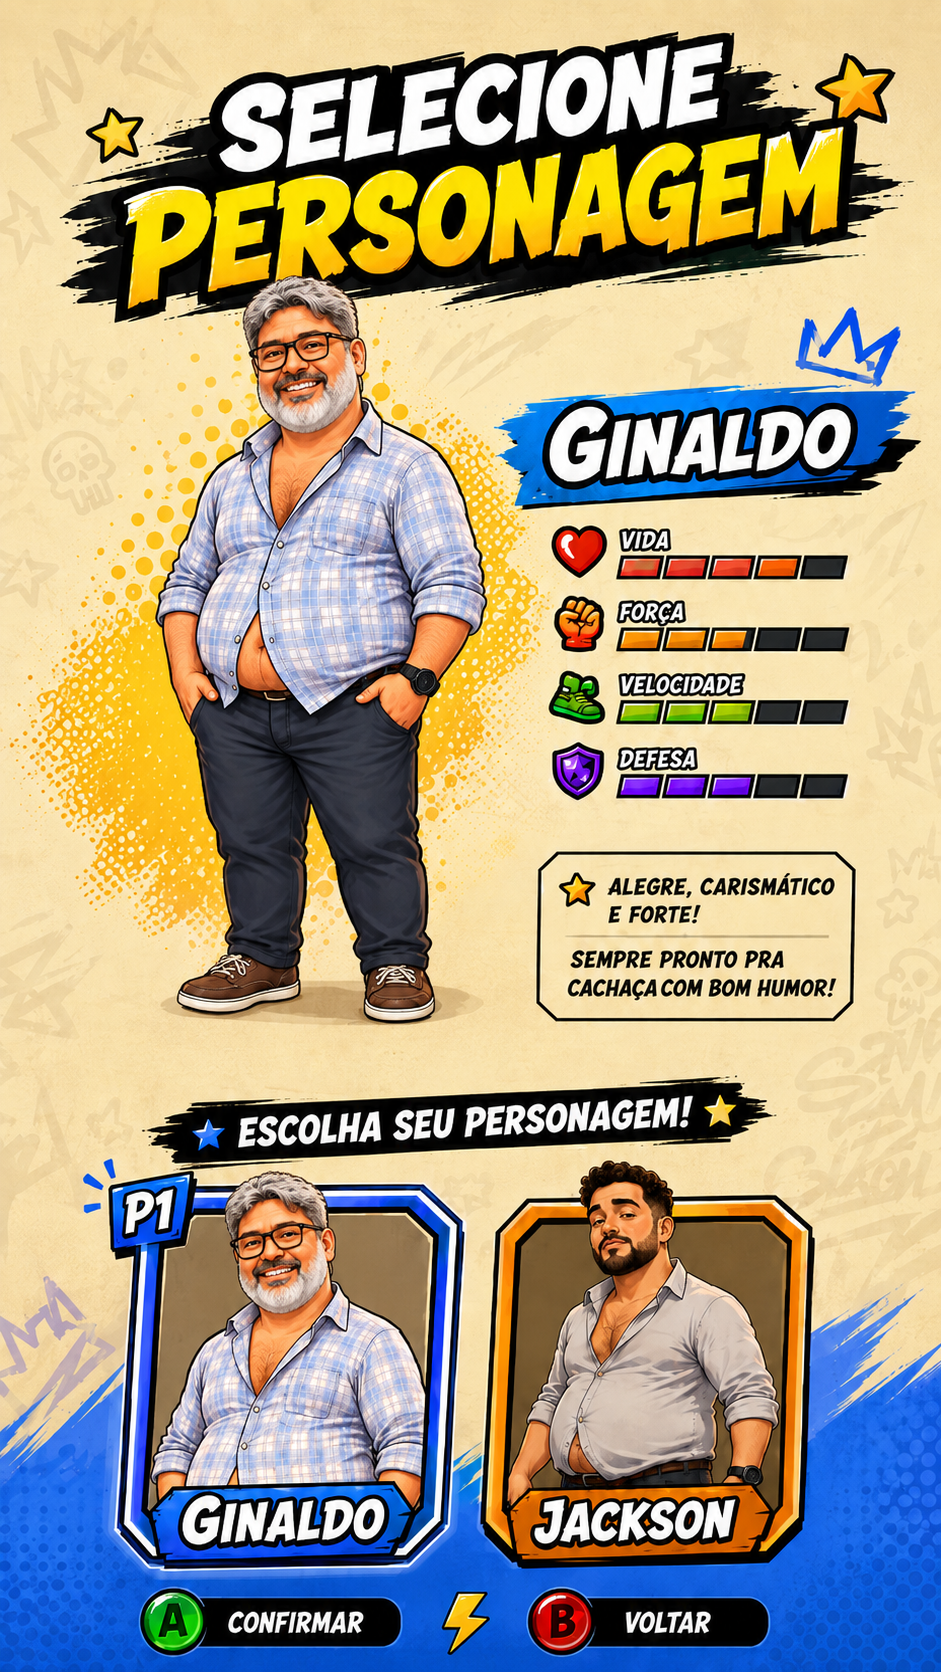
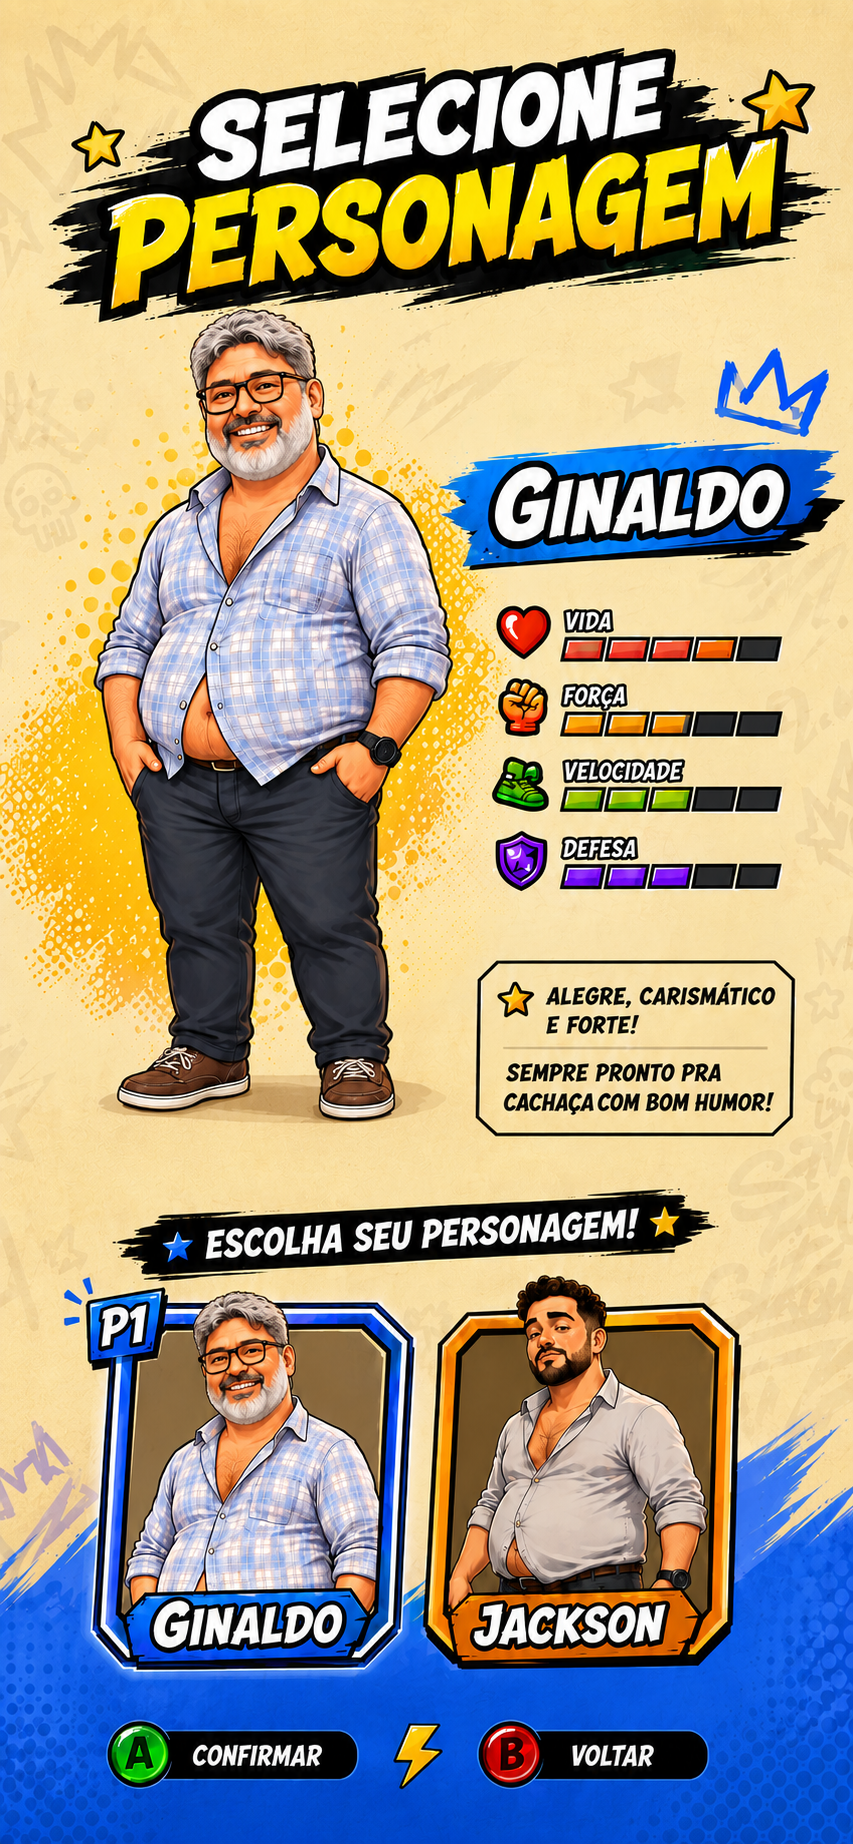
Update selection art and restore Eduardo

diff --git a/src/pages/BarGame.tsx b/src/pages/BarGame.tsx
@@ -238,13 +238,11 @@ export default function BarGame() {
       walkerFramesRef.current.jackson = [1, 2, 3, 4].map((column) => isolatePerson(jackson, column, 6, 0, 1.42));
     };
     const ginaldoWalker = new Image();
-    ginaldoWalker.src = "/bar-game/eduardo-walker-sprites-v4.png";
+    ginaldoWalker.src = "/bar-game/eduardo-walker-sprites-v5.png";
     walkerSpriteRefs.current.ginaldo = ginaldoWalker;
     ginaldoWalker.onload = () => {
-      walkerFramesRef.current.ginaldo = [0, 1].flatMap((row) =>
-        Array.from({ length: 15 }, (_, column) =>
-          isolatePerson(ginaldoWalker, column, 15, row, 1.2, 2, 1),
-        ),
+      walkerFramesRef.current.ginaldo = [1, 2, 3, 4].map((column) =>
+        isolatePerson(ginaldoWalker, column, 5, 0, 1.42, 2, 1.14),
       );
     };
     const bottleSources = [
@@ -519,7 +517,7 @@ export default function BarGame() {
       if (!sprite?.complete || !sprite.naturalWidth) return;
       const frames = walkerFramesRef.current[selectedCharacter];
       if (!frames.length) return;
-      const halfTrip = selectedCharacter === "ginaldo" ? 5.6 : 8.5;
+      const halfTrip = 8.5;
       const cycle = elapsed % (halfTrip * 2);
       const goingRight = cycle < halfTrip;
       const progress = goingRight ? cycle / halfTrip : (cycle - halfTrip) / halfTrip;
@@ -527,32 +525,19 @@ export default function BarGame() {
       const drawW = drawH * (frames[0].width / frames[0].height);
       const startX = -drawW * 0.7;
       const endX = width + drawW * 0.7;
-      const interactionStart = 5 / 15;
-      const interactionEnd = 11 / 15;
-      const travelProgress = progress < interactionStart
-        ? (progress / interactionStart) * 0.5
-        : progress < interactionEnd
-          ? 0.5
-          : 0.5 + ((progress - interactionEnd) / (1 - interactionEnd)) * 0.5;
-      const x = selectedCharacter === "ginaldo"
-        ? goingRight
-          ? startX + (endX - startX) * travelProgress
-          : endX - (endX - startX) * travelProgress
-        : goingRight
-          ? startX + (endX - startX) * progress
-          : endX - (endX - startX) * progress;
+      const x = goingRight
+        ? startX + (endX - startX) * progress
+        : endX - (endX - startX) * progress;
       const floorY = height * 0.67;
-      const framePosition = selectedCharacter === "ginaldo" ? progress * 15 : frameClock / 0.14;
-      const frameOffset = selectedCharacter === "ginaldo" && !goingRight ? 15 : 0;
-      const directionFrameCount = selectedCharacter === "ginaldo" ? 15 : frames.length;
-      const frameIndex = frameOffset + Math.min(directionFrameCount - 1, Math.floor(framePosition) % directionFrameCount);
+      const framePosition = frameClock / 0.14;
+      const frameIndex = Math.floor(framePosition) % frames.length;
       const walkWave = Math.sin(framePosition * Math.PI);
       const bob = Math.abs(walkWave) * (selectedCharacter === "ginaldo" ? 2.5 : 3);
       const bodySway = selectedCharacter === "ginaldo" ? Math.sin(framePosition * Math.PI) * 0.006 : 0;
 
       ctx.save();
       ctx.translate(x, bob);
-      if (!goingRight && selectedCharacter !== "ginaldo") ctx.scale(-1, 1);
+      if (!goingRight) ctx.scale(-1, 1);
       ctx.rotate(bodySway);
       ctx.drawImage(frames[frameIndex], -drawW / 2, floorY - drawH, drawW, drawH);
       ctx.restore();
@@ -907,8 +892,8 @@ export default function BarGame() {
           <div
             className="absolute left-1/2 top-1/2 overflow-hidden -translate-x-1/2 -translate-y-1/2"
             style={{
-              width: "min(100vw, calc(100vh * 941 / 1672))",
-              height: "min(100vh, calc(100vw * 1672 / 941))",
+              width: "min(100vw, calc(100vh * 853 / 1844))",
+              height: "min(100vh, calc(100vw * 1844 / 853))",
             }}
           >
             <img src={`/bar-game/selecao-${selectedCharacter}.png`} alt="Seleção de personagem" className="absolute inset-0 h-full w-full" />
